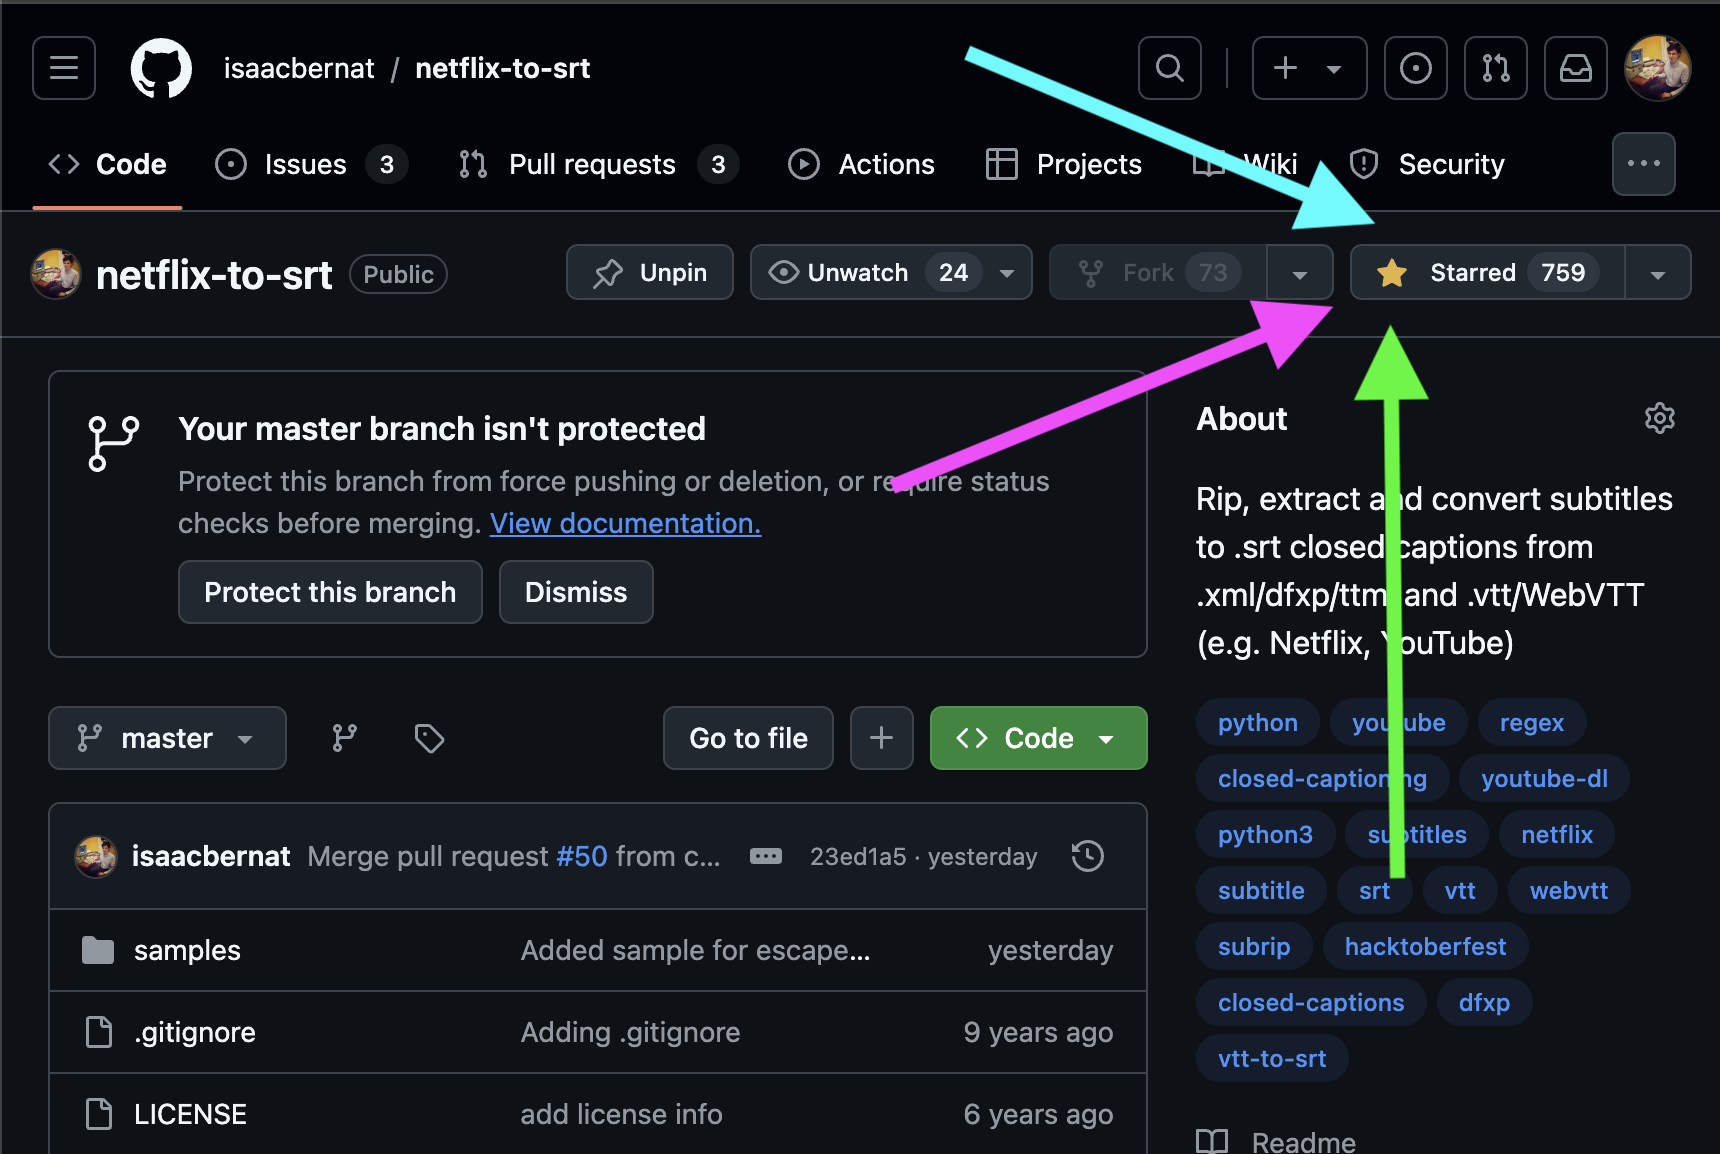
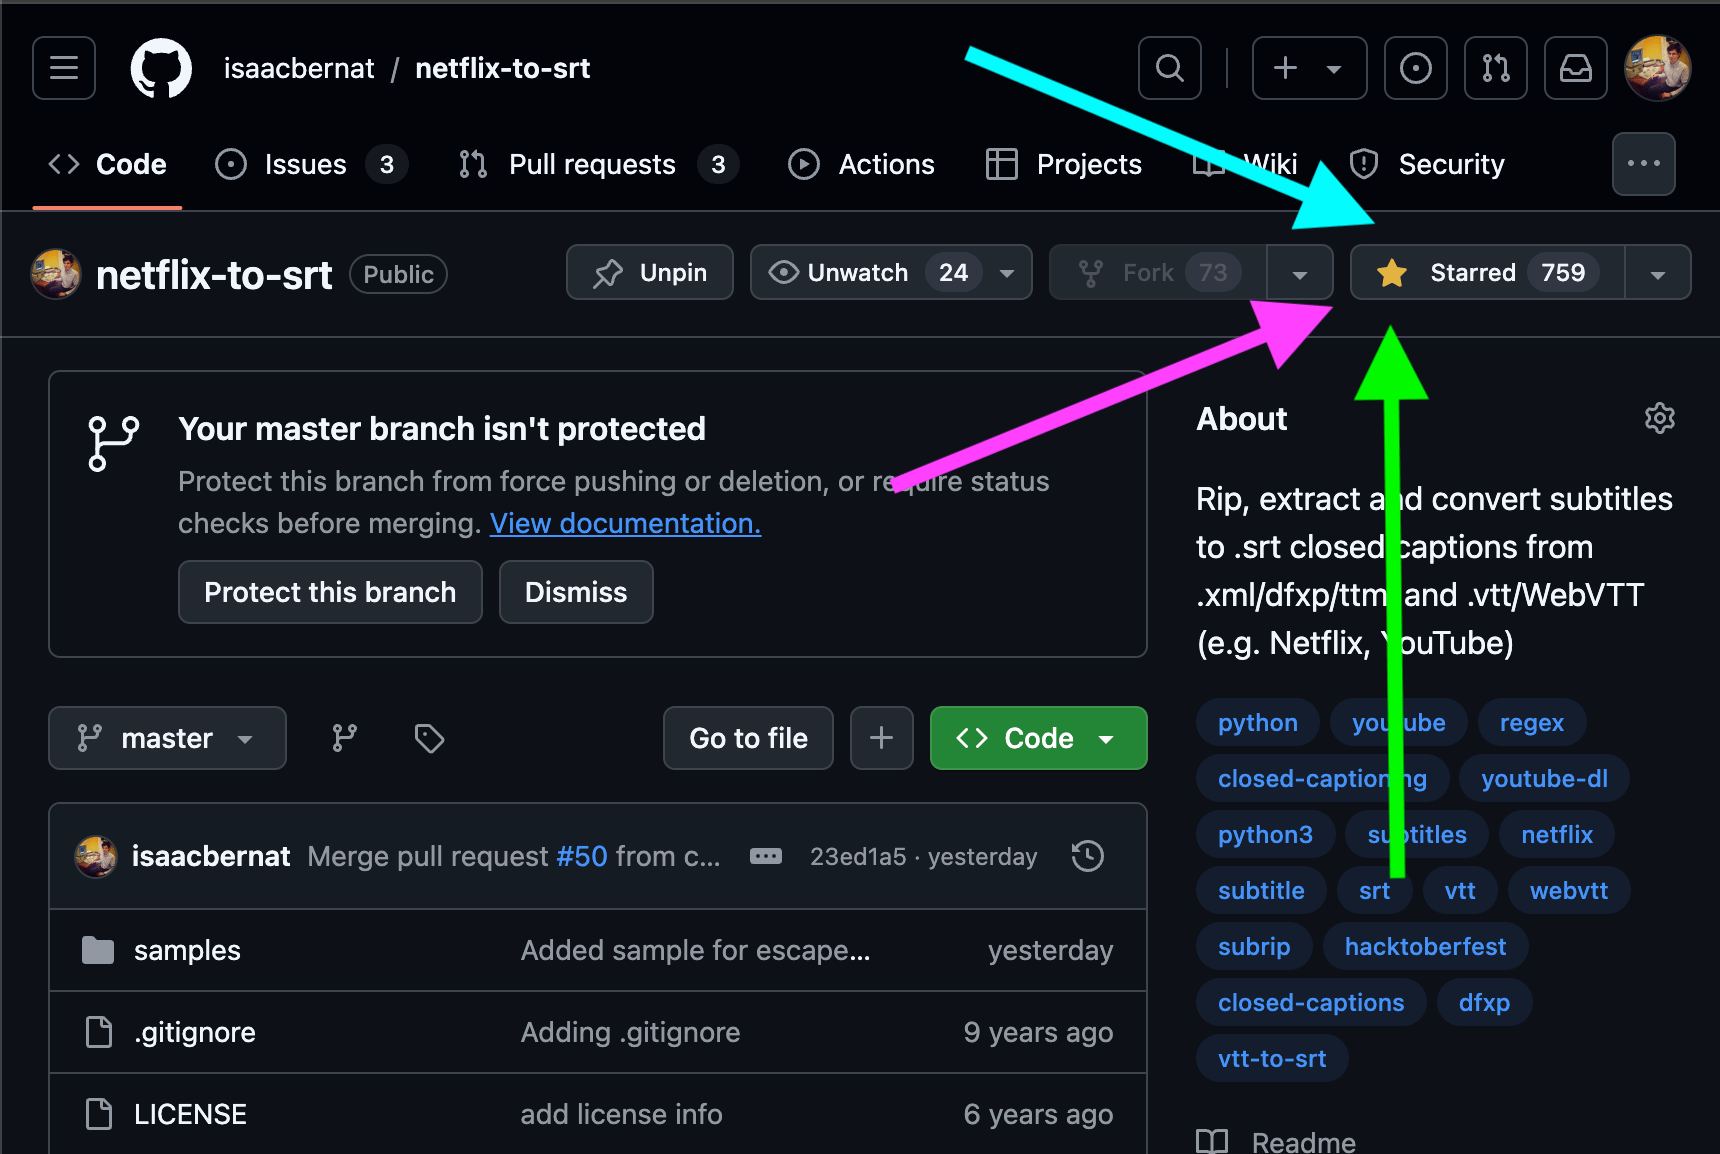
optimise star screenshots

diff --git a/README.md b/README.md
@@ -1,5 +1,5 @@
-# How to get `.srt` subtitles from streaming media services
-1. [Get the subtitles](https://github.com/isaacbernat/netflix-to-srt#get-the-subtitles) (`.xml` dfxp or `.vtt` files from Netflix, YouTube or other sources).
+# How to get `.srt` subtitles from streaming services
+1. [Get the subtitles](https://github.com/isaacbernat/netflix-to-srt#get-the-subtitles) (`.xml` dfxp or `.vtt` files from Netflix, YouTube... streaming media services).
     - [From Netflix](https://github.com/isaacbernat/netflix-to-srt#from-netflix)
     - [From YouTube](https://github.com/isaacbernat/netflix-to-srt#from-youtube)
 2. [Convert them](https://github.com/isaacbernat/netflix-to-srt#convert-them-into-srt) into `.srt` files.
@@ -36,7 +36,7 @@ You need [Google Chrome](https://www.google.com/chrome/browser/desktop/). *not t
 4. Select the subtitle you want.
 5. In devtools sort by name and look for a file with `?o=` at the beginning of the name (see image below).
 
-![Screenshot of Dev tools download](https://raw.githubusercontent.com/isaacbernat/netflix-to-srt/master/images/netflix-devtools-download-subs "Screenshot of Dev tools download")
+![Screenshot of Dev tools download](https://raw.githubusercontent.com/isaacbernat/netflix-to-srt/master/images/netflix-devtools-download-subs.png "Screenshot of Dev tools download")
 
 ### Get subtitles from Netflix: method 3
 The information is extracted from [this post](http://forum.opensubtitles.org/viewtopic.php?t=15141).
